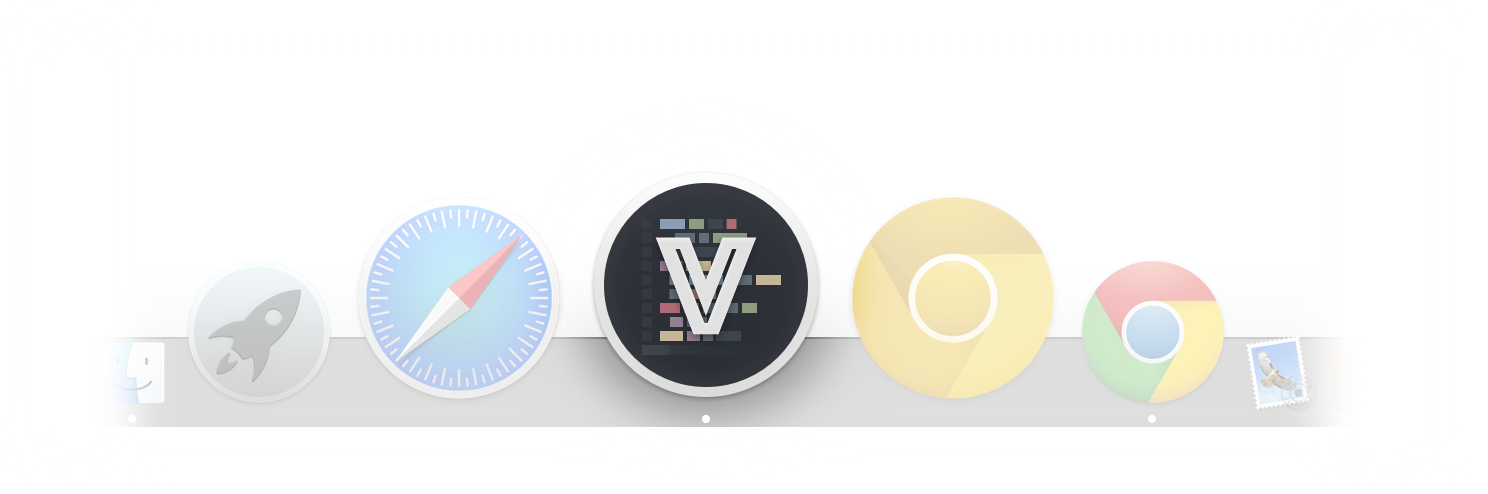
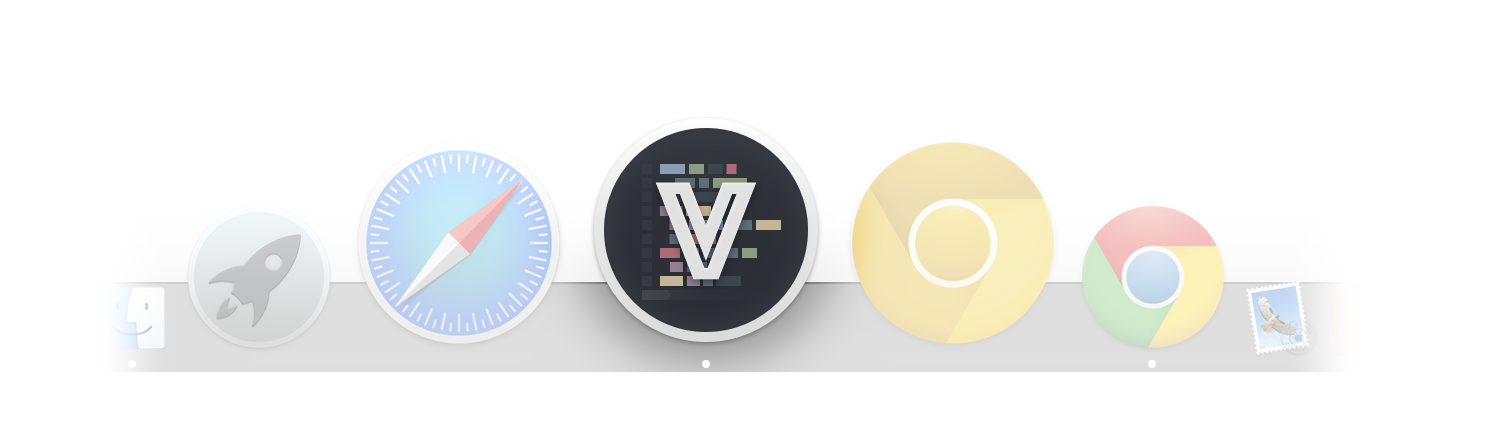
better image spacing on README

Changed region(s): [[0.0927, 0.2665, 0.8965, 0.8884]]

diff --git a/README.md b/README.md
@@ -24,11 +24,11 @@
 
 
 
-VimBox with matching Spacegray application icon.
--------------
 <img src="dotVim/images/flatlandia_completion.png" />
+> VimBox with Spacegray colorscheme
 
 <img src="dotVim/images/iconScreenshot.png" />
+> VimBox with Spacegray colorscheme
 
 
 Installation:
@@ -308,3 +308,6 @@ Each of the fonts carry their own license, which you should consult.
 The VimBox application icon was derived from Jannik Siebert's excellent Sublime
 icon. See the icon's `README` for more information and links to the original
 works as well as the license that applies to that icon.
+
+The SketchApp sources to the icon are also included in the
+`dotVim/images/iconSources` folder.
